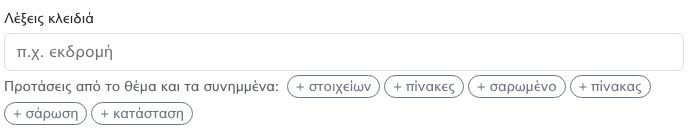
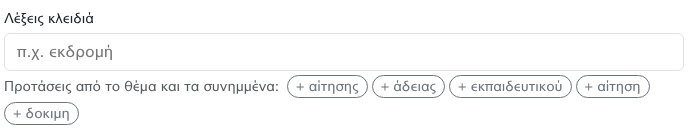
R5e: browser test on an e-mail no other test registers (CI runs the registration tests first)

Changed region(s): [[0.4578, 0.5496, 0.9462, 0.7634], [0.0305, 0.7634, 0.2747, 0.9771]]

diff --git a/e2e/tests/inbox.spec.js b/e2e/tests/inbox.spec.js
@@ -131,7 +131,9 @@ test('winmail.dat (Outlook): its text and files are shown and registered instead
 
 test('incoming date: the app\'s date field; keyword suggestions from the file names too (R5e)', async ({ page }) => {
   await login(page, 'admin');
-  const message = await findEmail(page, 'Αποστολή στοιχείων');   // synthetic e-mail 4: Πίνακας Α.pdf, σάρωση_001.png, κατάσταση.csv
+  // synthetic e-mail 10, which no test registers: subject «Διαβιβαστικό αίτησης άδειας εκπαιδευτικού»,
+  // file «ΑΙΤΗΣΗ ΑΔΕΙΑΣ ΕΚΠΑΙΔΕΥΤΙΚΟΥ ΔΟΚΙΜΗ (1).pdf» (αιτηση and δοκιμη are only in the file's name)
+  const message = await findEmail(page, 'Διαβιβαστικό αίτησης άδειας');
   const pad = (n) => String(n).padStart(2, '0');
   const now = new Date();
 
@@ -147,8 +149,11 @@ test('incoming date: the app\'s date field; keyword suggestions from the file na
   // suggestions: words of the file names, not only of the subject
   const suggestions = message.locator('.keyword-suggestions');
   await expect(suggestions).toContainText('Προτάσεις από το θέμα και τα συνημμένα');
-  await expect(suggestions.locator('[data-suggest="κατάσταση"]')).toBeVisible();
-  await expect(suggestions.locator('[data-suggest="σάρωση"]')).toBeVisible();
+  const fold = (w) => w.normalize('NFD').replace(/\p{Mn}/gu, '').toLowerCase().replace(/ς/g, 'σ');
+  await expect(suggestions.locator('[data-suggest]').first()).toBeVisible();
+  const offered = (await suggestions.locator('[data-suggest]').evaluateAll((els) => els.map((e) => e.dataset.suggest))).map(fold);
+  expect(offered).toContain('αιτηση');   // with its accents when earlier subjects have the word
+  expect(offered).toContain('δοκιμη');
   const box = await date.evaluate((el) => {
     const form = el.closest('.row, form') || el;
     const r = form.getBoundingClientRect();

diff --git a/docs/reports/R5e.md b/docs/reports/R5e.md
@@ -49,11 +49,14 @@
     - *Ημ/νία εισερχ.* is the app's date field; `9` is saved as the 9th of this month.
 
   The four new tests failed before the change.
-- Browser (`inbox.spec.js`, synthetic e-mail *«Αποστολή στοιχείων»*):
+- Browser (`inbox.spec.js`): synthetic e-mail *«Διαβιβαστικό αίτησης άδειας εκπαιδευτικού»*, which no test
+  registers, with the file *ΑΙΤΗΣΗ ΑΔΕΙΑΣ ΕΚΠΑΙΔΕΥΤΙΚΟΥ ΔΟΚΙΜΗ (1).pdf*:
   - `9` + TAB → 09/this month; ◀ → 08; the calendar button is there;
-  - the suggestions include *κατάσταση* and *σάρωση*, which come from the file names only.
+  - the suggestions include *αίτηση* and *δοκιμη*, which are only in the file's name. In the screenshot *αίτηση* has
+    its accent (earlier subjects have the word) and *δοκιμη* has none (no earlier subject has it).
 
-  All 7 inbox browser tests pass.
+  All 7 inbox browser tests pass, also after the registration tests (as in CI: the first version used an e-mail that
+  a registration test moves out of the inbox).
 - Full suite: PHPUnit 535.
 
 ## Owner actions
